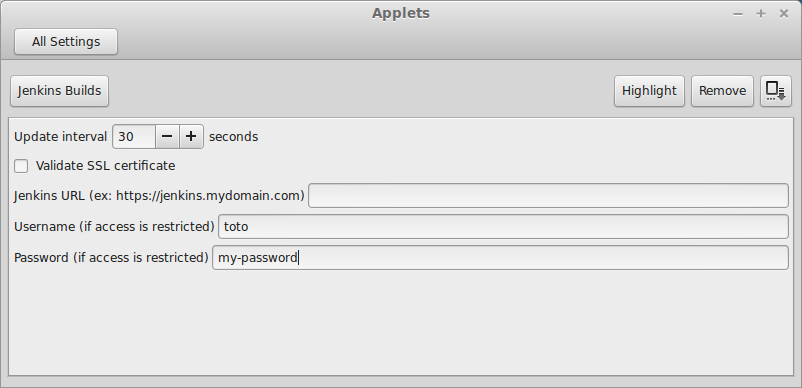
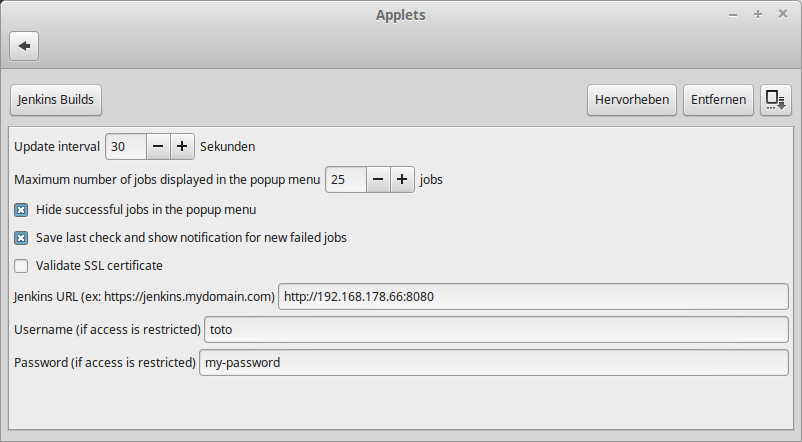
Added new setting: show notification for failed jobs

diff --git a/jenkins@backuity.org/applet.js b/jenkins@backuity.org/applet.js
@@ -32,11 +32,13 @@ const JENKINS_USERNAME = 'jenkinsUsername'
 const JENKINS_PASSWORD = 'jenkinsPassword'
 const JENKINS_MAX_NUMBER_OF_JOBS = 'maxNumberOfJobs'
 const JENKINS_HIDE_SUCCESSFUL_JOBS = 'hideSuccessfulJobs'
+const JENKINS_SHOW_NOTIFICATION_FOR_FAILED_JOBS = 'showNotificationForFailedJobs'
 
 const KEYS = [
   JENKINS_REFRESH_INTERVAL,
   JENKINS_MAX_NUMBER_OF_JOBS,
   JENKINS_HIDE_SUCCESSFUL_JOBS,
+  JENKINS_SHOW_NOTIFICATION_FOR_FAILED_JOBS,
   JENKINS_SSL_STRICT,
   JENKINS_URL,
   JENKINS_USERNAME,
@@ -66,7 +68,7 @@ MyApplet.prototype = {
         this.set_applet_tooltip(_('Jenkins status'));
 
         this.lastCheckJobSuccess = new Map();
-        this.lastCheckJobSuccess.set('Accumulo-1.6', true);
+        this.lastCheckJobSuccess.set('paratus.install.new.shop', true);
 
         this.assignMessageSource();
 
@@ -113,9 +115,11 @@ MyApplet.prototype = {
         }
     }
 
-    , pinFailNotification: function(jobName, color) {
-        //TODO da_re: dont use SystemNotificationSource
-        let notification = new MessageTray.Notification(this.messageSource, 'Jenkins-Job failed', 'The job ' + jobName + ', which has been successful last check, failed.', {});
+    , pinFailNotification: function(jobName) {
+        let icon = new St.Icon({ icon_name: 'dialog-error',
+                             icon_type: St.IconType.FULLCOLOR,
+                             icon_size: 36 });
+        let notification = new MessageTray.Notification(this.messageSource, 'Jenkins-Job failed', 'The job ' + jobName + ', which has been successful last check, failed.', { icon: icon });
         notification.setTransient(false);
         notification.setResident(true);
         notification.setUrgency(MessageTray.Urgency.CRITICAL);
@@ -149,7 +153,7 @@ MyApplet.prototype = {
                 }
 
                 let displayedJobs = 0;
-                for (let i = 0; i < jobs.length && displayedJobs <= maxJobs; i++) {
+                for (let i = 0; i < jobs.length && displayedJobs < maxJobs; i++) {
                     let job = jobs[i].get_object();
 
                     let color = job.get_string_member('color');
@@ -184,6 +188,10 @@ MyApplet.prototype = {
     }
 
     , displayNewlyFailedJobs: function(jobs) {
+        if (!this._showNotificationForFailedJobs) {
+            return;
+        }
+
         for (let i = 0; i < jobs.length; i ++) {
             let job = jobs[i].get_object();
 
@@ -197,7 +205,7 @@ MyApplet.prototype = {
             }
 
             if (this.lastCheckJobSuccess.has(jobName) && this.lastCheckJobSuccess.get(jobName)) {
-                this.pinFailNotification(jobname, color);
+                this.pinFailNotification(jobName);
             }
             this.lastCheckJobSuccess.set(jobName, false);
         }
